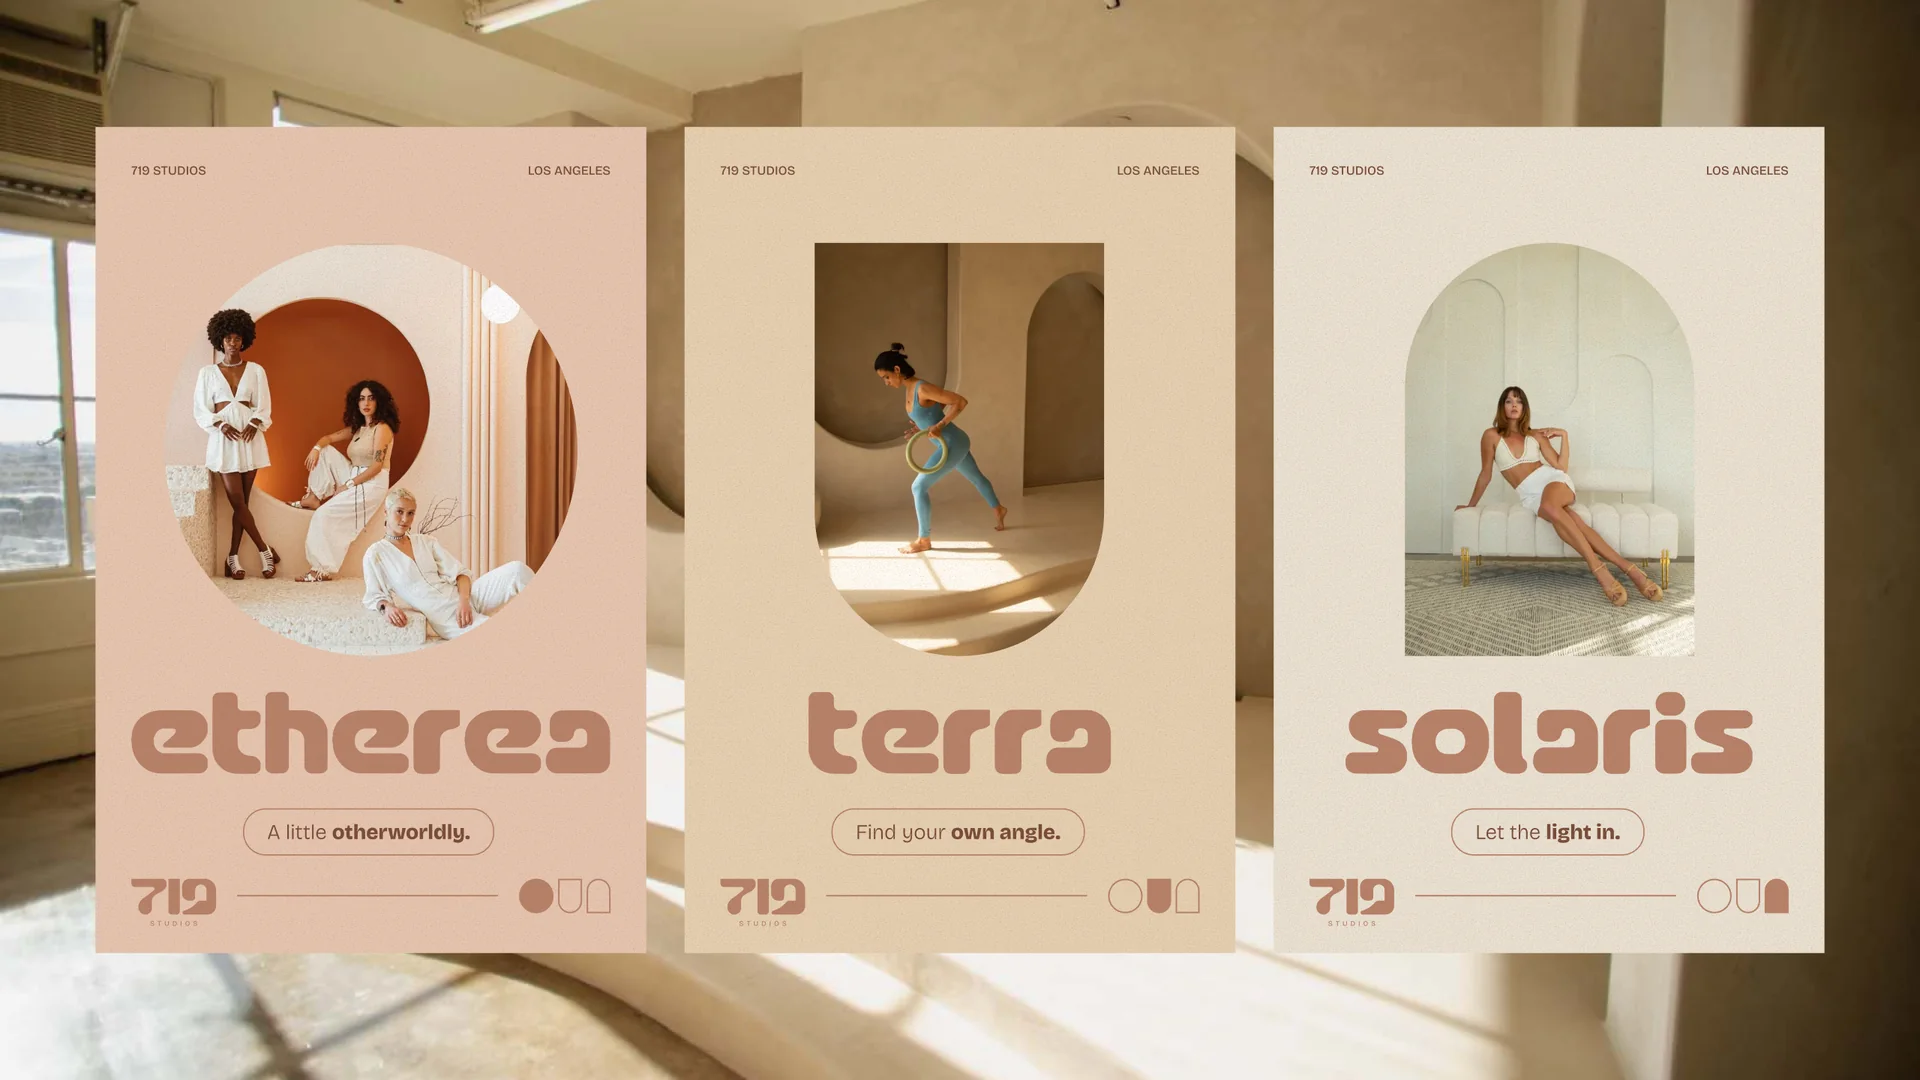
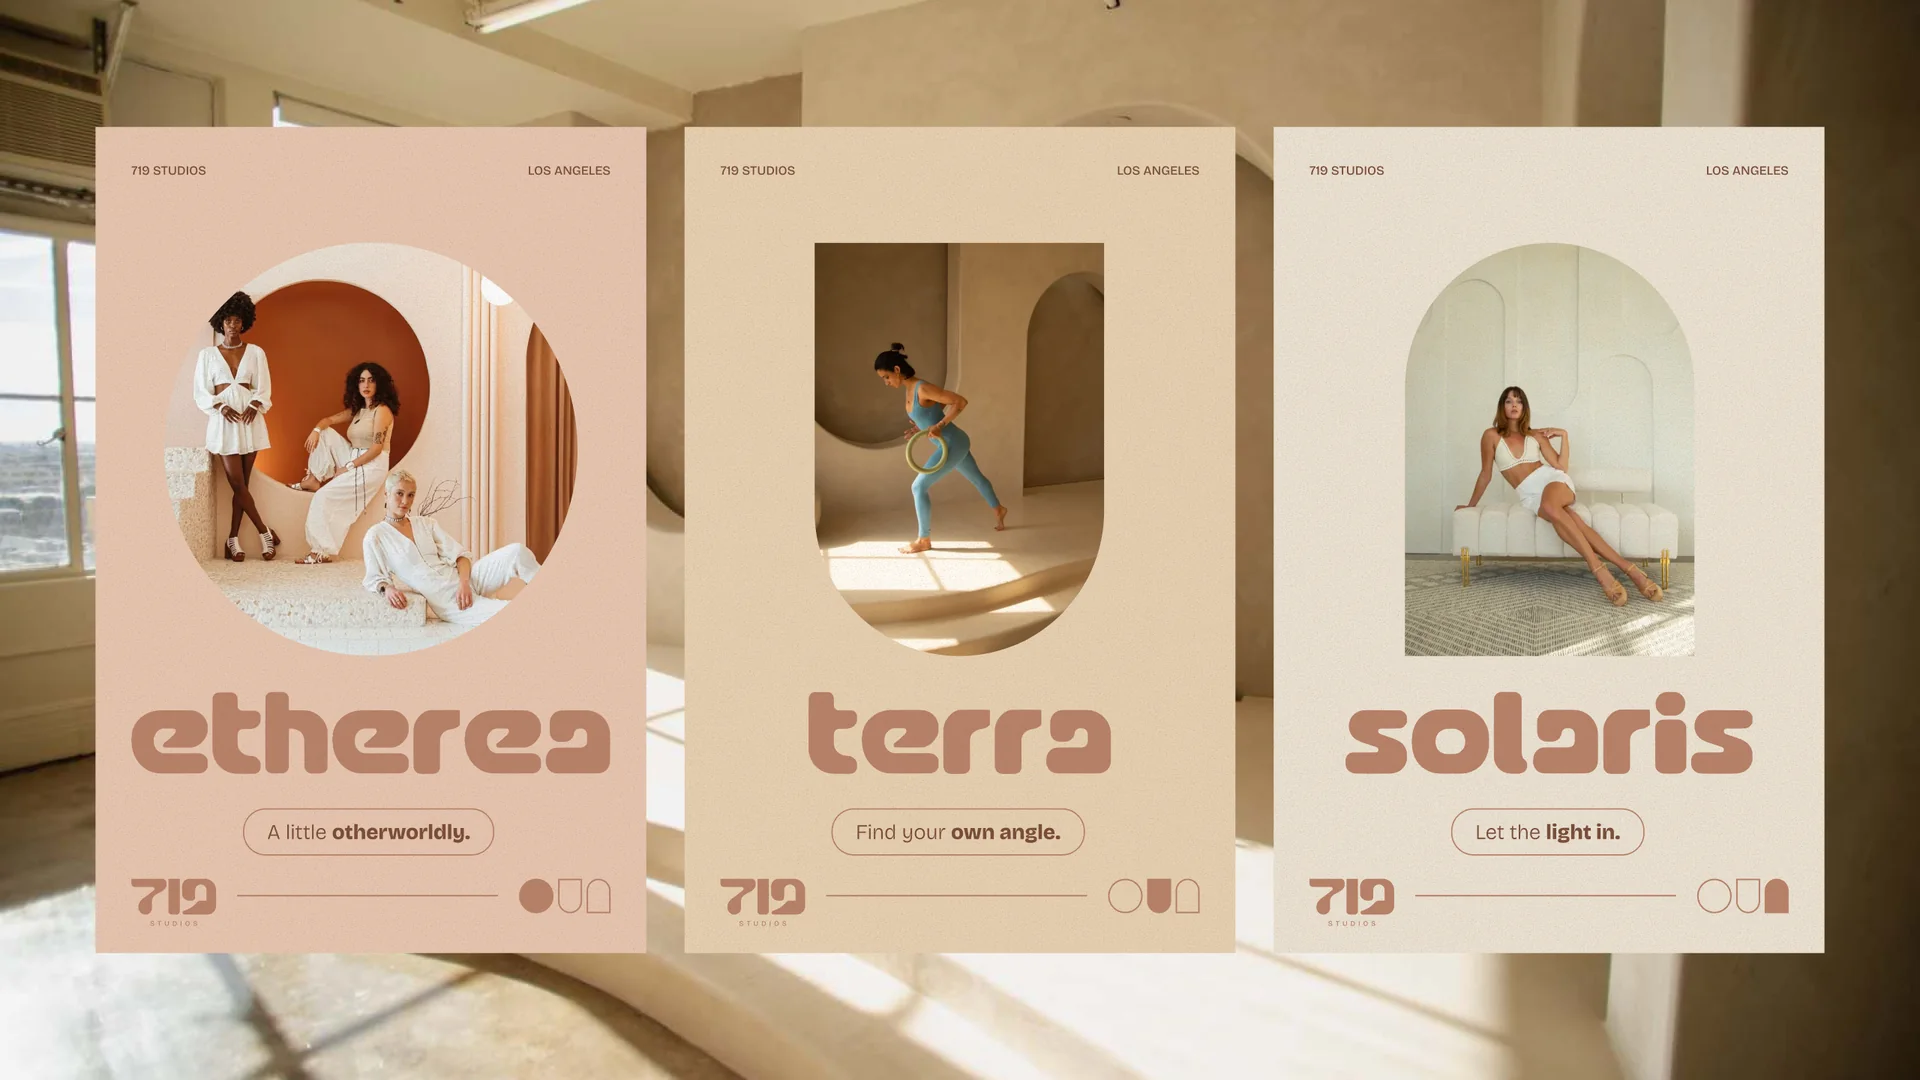
719 Studios: Etherea poster photo recropped so the top of the set is out of the circle

Changed region(s): [[0.0938, 0.2444, 0.2812, 0.6111], [0.25, 0.275, 0.2812, 0.3056]]

diff --git a/work/719-studios/index.html b/work/719-studios/index.html
@@ -28,19 +28,19 @@
     <a class="btn" href="mailto:hello@jcg.studio" data-flap><span class="flap">Work with me</span><span class="arr" aria-hidden="true">→</span></a>
   </aside>
   <div class="dk-stack">
-    <section class="sl" data-reveal role="img" aria-label="The 719 Studios logo in clay on a pale birch ground"><div class="in"><img class="fill" src="../../assets/img/work/719/deck/figma/01-logo-1920.webp?v=20261116f" srcset="../../assets/img/work/719/deck/figma/01-logo-960.webp?v=20261116f 960w, ../../assets/img/work/719/deck/figma/01-logo-1920.webp?v=20261116f 1920w" sizes="(max-width: 899px) 100vw, 70vw" width="1920" height="1080" alt="" decoding="async"></div></section>
-    <section class="sl" data-reveal role="img" aria-label="The four brand colours with their names and values: Clay, Blush, Sand and Birch"><div class="in"><img class="fill" src="../../assets/img/work/719/deck/figma/02-palette-1920.webp?v=20261116f" srcset="../../assets/img/work/719/deck/figma/02-palette-960.webp?v=20261116f 960w, ../../assets/img/work/719/deck/figma/02-palette-1920.webp?v=20261116f 1920w" sizes="(max-width: 899px) 100vw, 70vw" width="1920" height="1080" alt="" loading="lazy" decoding="async"></div></section>
-    <section class="sl" data-reveal role="img" aria-label="The typeface Bricolage Grotesque in three weights, with the three studio taglines"><div class="in"><img class="fill" src="../../assets/img/work/719/deck/figma/03-type-1920.webp?v=20261116f" srcset="../../assets/img/work/719/deck/figma/03-type-960.webp?v=20261116f 960w, ../../assets/img/work/719/deck/figma/03-type-1920.webp?v=20261116f 1920w" sizes="(max-width: 899px) 100vw, 70vw" width="1920" height="1080" alt="" loading="lazy" decoding="async"></div></section>
-    <section class="sl" data-reveal role="img" aria-label="The 719 Studios logo set inside the orange circle of the Etherea room"><div class="in"><img class="fill" src="../../assets/img/work/719/deck/figma/04-etherea-1920.webp?v=20261116f" srcset="../../assets/img/work/719/deck/figma/04-etherea-960.webp?v=20261116f 960w, ../../assets/img/work/719/deck/figma/04-etherea-1920.webp?v=20261116f 1920w" sizes="(max-width: 899px) 100vw, 70vw" width="1920" height="1080" alt="" loading="lazy" decoding="async"></div></section>
-    <section class="sl" data-reveal role="img" aria-label="Three studio posters, each showing its room through its own shape, laid over a photo of the Terra room"><div class="in"><img class="fill" src="../../assets/img/work/719/deck/figma/05-posters-1920.webp?v=20261116f" srcset="../../assets/img/work/719/deck/figma/05-posters-960.webp?v=20261116f 960w, ../../assets/img/work/719/deck/figma/05-posters-1920.webp?v=20261116f 1920w" sizes="(max-width: 899px) 100vw, 70vw" width="1920" height="1080" alt="" loading="lazy" decoding="async"></div></section>
-    <section class="sl" data-reveal role="img" aria-label="Four figures over a photo taken at Etherea: 1,000+ reviews, 5.0 average rating, No. 9 on Peerspace in Los Angeles in 2023, 3.2M timelapse views"><div class="in"><img class="fill" src="../../assets/img/work/719/deck/figma/06-numbers-1920.webp?v=20261116f" srcset="../../assets/img/work/719/deck/figma/06-numbers-960.webp?v=20261116f 960w, ../../assets/img/work/719/deck/figma/06-numbers-1920.webp?v=20261116f 1920w" sizes="(max-width: 899px) 100vw, 70vw" width="1920" height="1080" alt="" loading="lazy" decoding="async"></div></section>
-    <section class="sl" data-reveal role="img" aria-label="The 719 Studios logo over the empty Terra room"><div class="in"><img class="fill" src="../../assets/img/work/719/deck/figma/07-terra-1920.webp?v=20261116f" srcset="../../assets/img/work/719/deck/figma/07-terra-960.webp?v=20261116f 960w, ../../assets/img/work/719/deck/figma/07-terra-1920.webp?v=20261116f 1920w" sizes="(max-width: 899px) 100vw, 70vw" width="1920" height="1080" alt="" loading="lazy" decoding="async"></div></section>
-    <section class="sl" data-reveal role="img" aria-label="Two oversized studio shapes with a circle between them holding the logo"><div class="in"><img class="fill" src="../../assets/img/work/719/deck/figma/09-pattern-shapes-1920.webp?v=20261116f" srcset="../../assets/img/work/719/deck/figma/09-pattern-shapes-960.webp?v=20261116f 960w, ../../assets/img/work/719/deck/figma/09-pattern-shapes-1920.webp?v=20261116f 1920w" sizes="(max-width: 899px) 100vw, 70vw" width="1920" height="1080" alt="" loading="lazy" decoding="async"></div></section>
-    <section class="sl" data-reveal role="img" aria-label="A concept ad banner with the line Room to make and three photos seen through the studio shapes"><div class="in"><img class="fill" src="../../assets/img/work/719/deck/figma/10-ad-1920.webp?v=20261116f" srcset="../../assets/img/work/719/deck/figma/10-ad-960.webp?v=20261116f 960w, ../../assets/img/work/719/deck/figma/10-ad-1920.webp?v=20261116f 1920w" sizes="(max-width: 899px) 100vw, 70vw" width="1920" height="1080" alt="" loading="lazy" decoding="async"></div></section>
-    <section class="sl" data-reveal role="img" aria-label="A concept email signature with the three studio shapes and the logo"><div class="in"><img class="fill" src="../../assets/img/work/719/deck/figma/11-email-1920.webp?v=20261116f" srcset="../../assets/img/work/719/deck/figma/11-email-960.webp?v=20261116f 960w, ../../assets/img/work/719/deck/figma/11-email-1920.webp?v=20261116f 1920w" sizes="(max-width: 899px) 100vw, 70vw" width="1920" height="1080" alt="" loading="lazy" decoding="async"></div></section>
-    <section class="sl" data-reveal role="img" aria-label="A concept website header with the line Room to make and a large circular photo"><div class="in"><img class="fill" src="../../assets/img/work/719/deck/figma/12-website-1920.webp?v=20261116f" srcset="../../assets/img/work/719/deck/figma/12-website-960.webp?v=20261116f 960w, ../../assets/img/work/719/deck/figma/12-website-1920.webp?v=20261116f 1920w" sizes="(max-width: 899px) 100vw, 70vw" width="1920" height="1080" alt="" loading="lazy" decoding="async"></div></section>
-    <section class="sl" data-reveal role="img" aria-label="A concept T-shirt in clay with the three studio shapes on the back, worn in a room like Solaris"><div class="in"><img class="fill" src="../../assets/img/work/719/deck/figma/13-shirt-1920.webp?v=20261116f" srcset="../../assets/img/work/719/deck/figma/13-shirt-960.webp?v=20261116f 960w, ../../assets/img/work/719/deck/figma/13-shirt-1920.webp?v=20261116f 1920w" sizes="(max-width: 899px) 100vw, 70vw" width="1920" height="1080" alt="" loading="lazy" decoding="async"></div></section>
-    <section class="sl" data-reveal role="img" aria-label="A concept canvas tote bag with the logo, carried in a room like Terra"><div class="in"><img class="fill" src="../../assets/img/work/719/deck/figma/14-tote-1920.webp?v=20261116f" srcset="../../assets/img/work/719/deck/figma/14-tote-960.webp?v=20261116f 960w, ../../assets/img/work/719/deck/figma/14-tote-1920.webp?v=20261116f 1920w" sizes="(max-width: 899px) 100vw, 70vw" width="1920" height="1080" alt="" loading="lazy" decoding="async"></div></section>
+    <section class="sl" data-reveal role="img" aria-label="The 719 Studios logo in clay on a pale birch ground"><div class="in"><img class="fill" src="../../assets/img/work/719/deck/figma/01-logo-1920.webp?v=20261116g" srcset="../../assets/img/work/719/deck/figma/01-logo-960.webp?v=20261116g 960w, ../../assets/img/work/719/deck/figma/01-logo-1920.webp?v=20261116g 1920w" sizes="(max-width: 899px) 100vw, 70vw" width="1920" height="1080" alt="" decoding="async"></div></section>
+    <section class="sl" data-reveal role="img" aria-label="The four brand colours with their names and values: Clay, Blush, Sand and Birch"><div class="in"><img class="fill" src="../../assets/img/work/719/deck/figma/02-palette-1920.webp?v=20261116g" srcset="../../assets/img/work/719/deck/figma/02-palette-960.webp?v=20261116g 960w, ../../assets/img/work/719/deck/figma/02-palette-1920.webp?v=20261116g 1920w" sizes="(max-width: 899px) 100vw, 70vw" width="1920" height="1080" alt="" loading="lazy" decoding="async"></div></section>
+    <section class="sl" data-reveal role="img" aria-label="The typeface Bricolage Grotesque in three weights, with the three studio taglines"><div class="in"><img class="fill" src="../../assets/img/work/719/deck/figma/03-type-1920.webp?v=20261116g" srcset="../../assets/img/work/719/deck/figma/03-type-960.webp?v=20261116g 960w, ../../assets/img/work/719/deck/figma/03-type-1920.webp?v=20261116g 1920w" sizes="(max-width: 899px) 100vw, 70vw" width="1920" height="1080" alt="" loading="lazy" decoding="async"></div></section>
+    <section class="sl" data-reveal role="img" aria-label="The 719 Studios logo set inside the orange circle of the Etherea room"><div class="in"><img class="fill" src="../../assets/img/work/719/deck/figma/04-etherea-1920.webp?v=20261116g" srcset="../../assets/img/work/719/deck/figma/04-etherea-960.webp?v=20261116g 960w, ../../assets/img/work/719/deck/figma/04-etherea-1920.webp?v=20261116g 1920w" sizes="(max-width: 899px) 100vw, 70vw" width="1920" height="1080" alt="" loading="lazy" decoding="async"></div></section>
+    <section class="sl" data-reveal role="img" aria-label="Three studio posters, each showing its room through its own shape, laid over a photo of the Terra room"><div class="in"><img class="fill" src="../../assets/img/work/719/deck/figma/05-posters-1920.webp?v=20261116g" srcset="../../assets/img/work/719/deck/figma/05-posters-960.webp?v=20261116g 960w, ../../assets/img/work/719/deck/figma/05-posters-1920.webp?v=20261116g 1920w" sizes="(max-width: 899px) 100vw, 70vw" width="1920" height="1080" alt="" loading="lazy" decoding="async"></div></section>
+    <section class="sl" data-reveal role="img" aria-label="Four figures over a photo taken at Etherea: 1,000+ reviews, 5.0 average rating, No. 9 on Peerspace in Los Angeles in 2023, 3.2M timelapse views"><div class="in"><img class="fill" src="../../assets/img/work/719/deck/figma/06-numbers-1920.webp?v=20261116g" srcset="../../assets/img/work/719/deck/figma/06-numbers-960.webp?v=20261116g 960w, ../../assets/img/work/719/deck/figma/06-numbers-1920.webp?v=20261116g 1920w" sizes="(max-width: 899px) 100vw, 70vw" width="1920" height="1080" alt="" loading="lazy" decoding="async"></div></section>
+    <section class="sl" data-reveal role="img" aria-label="The 719 Studios logo over the empty Terra room"><div class="in"><img class="fill" src="../../assets/img/work/719/deck/figma/07-terra-1920.webp?v=20261116g" srcset="../../assets/img/work/719/deck/figma/07-terra-960.webp?v=20261116g 960w, ../../assets/img/work/719/deck/figma/07-terra-1920.webp?v=20261116g 1920w" sizes="(max-width: 899px) 100vw, 70vw" width="1920" height="1080" alt="" loading="lazy" decoding="async"></div></section>
+    <section class="sl" data-reveal role="img" aria-label="Two oversized studio shapes with a circle between them holding the logo"><div class="in"><img class="fill" src="../../assets/img/work/719/deck/figma/09-pattern-shapes-1920.webp?v=20261116g" srcset="../../assets/img/work/719/deck/figma/09-pattern-shapes-960.webp?v=20261116g 960w, ../../assets/img/work/719/deck/figma/09-pattern-shapes-1920.webp?v=20261116g 1920w" sizes="(max-width: 899px) 100vw, 70vw" width="1920" height="1080" alt="" loading="lazy" decoding="async"></div></section>
+    <section class="sl" data-reveal role="img" aria-label="A concept ad banner with the line Room to make and three photos seen through the studio shapes"><div class="in"><img class="fill" src="../../assets/img/work/719/deck/figma/10-ad-1920.webp?v=20261116g" srcset="../../assets/img/work/719/deck/figma/10-ad-960.webp?v=20261116g 960w, ../../assets/img/work/719/deck/figma/10-ad-1920.webp?v=20261116g 1920w" sizes="(max-width: 899px) 100vw, 70vw" width="1920" height="1080" alt="" loading="lazy" decoding="async"></div></section>
+    <section class="sl" data-reveal role="img" aria-label="A concept email signature with the three studio shapes and the logo"><div class="in"><img class="fill" src="../../assets/img/work/719/deck/figma/11-email-1920.webp?v=20261116g" srcset="../../assets/img/work/719/deck/figma/11-email-960.webp?v=20261116g 960w, ../../assets/img/work/719/deck/figma/11-email-1920.webp?v=20261116g 1920w" sizes="(max-width: 899px) 100vw, 70vw" width="1920" height="1080" alt="" loading="lazy" decoding="async"></div></section>
+    <section class="sl" data-reveal role="img" aria-label="A concept website header with the line Room to make and a large circular photo"><div class="in"><img class="fill" src="../../assets/img/work/719/deck/figma/12-website-1920.webp?v=20261116g" srcset="../../assets/img/work/719/deck/figma/12-website-960.webp?v=20261116g 960w, ../../assets/img/work/719/deck/figma/12-website-1920.webp?v=20261116g 1920w" sizes="(max-width: 899px) 100vw, 70vw" width="1920" height="1080" alt="" loading="lazy" decoding="async"></div></section>
+    <section class="sl" data-reveal role="img" aria-label="A concept T-shirt in clay with the three studio shapes on the back, worn in a room like Solaris"><div class="in"><img class="fill" src="../../assets/img/work/719/deck/figma/13-shirt-1920.webp?v=20261116g" srcset="../../assets/img/work/719/deck/figma/13-shirt-960.webp?v=20261116g 960w, ../../assets/img/work/719/deck/figma/13-shirt-1920.webp?v=20261116g 1920w" sizes="(max-width: 899px) 100vw, 70vw" width="1920" height="1080" alt="" loading="lazy" decoding="async"></div></section>
+    <section class="sl" data-reveal role="img" aria-label="A concept canvas tote bag with the logo, carried in a room like Terra"><div class="in"><img class="fill" src="../../assets/img/work/719/deck/figma/14-tote-1920.webp?v=20261116g" srcset="../../assets/img/work/719/deck/figma/14-tote-960.webp?v=20261116g 960w, ../../assets/img/work/719/deck/figma/14-tote-1920.webp?v=20261116g 1920w" sizes="(max-width: 899px) 100vw, 70vw" width="1920" height="1080" alt="" loading="lazy" decoding="async"></div></section>
     <p class="dk-fine">The three studios, room photos, reviews, award and timelapse views are real. Website, ad, email signature, T-shirt and tote bag are unproduced concepts; both pictures of people are AI-generated.</p>
     <p class="dk-fine">By JCG Studio</p>
   </div>
